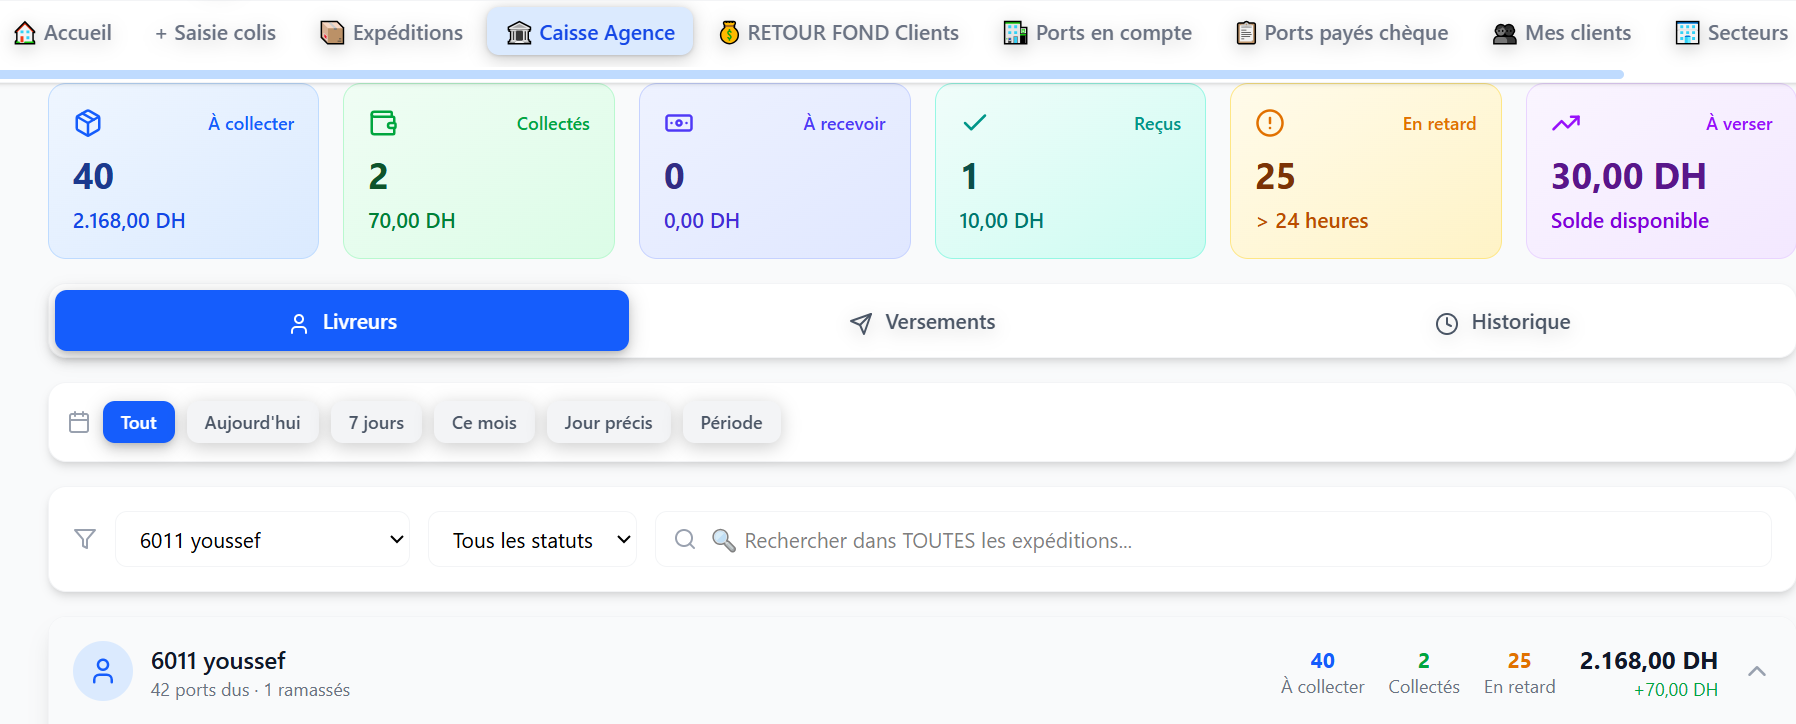
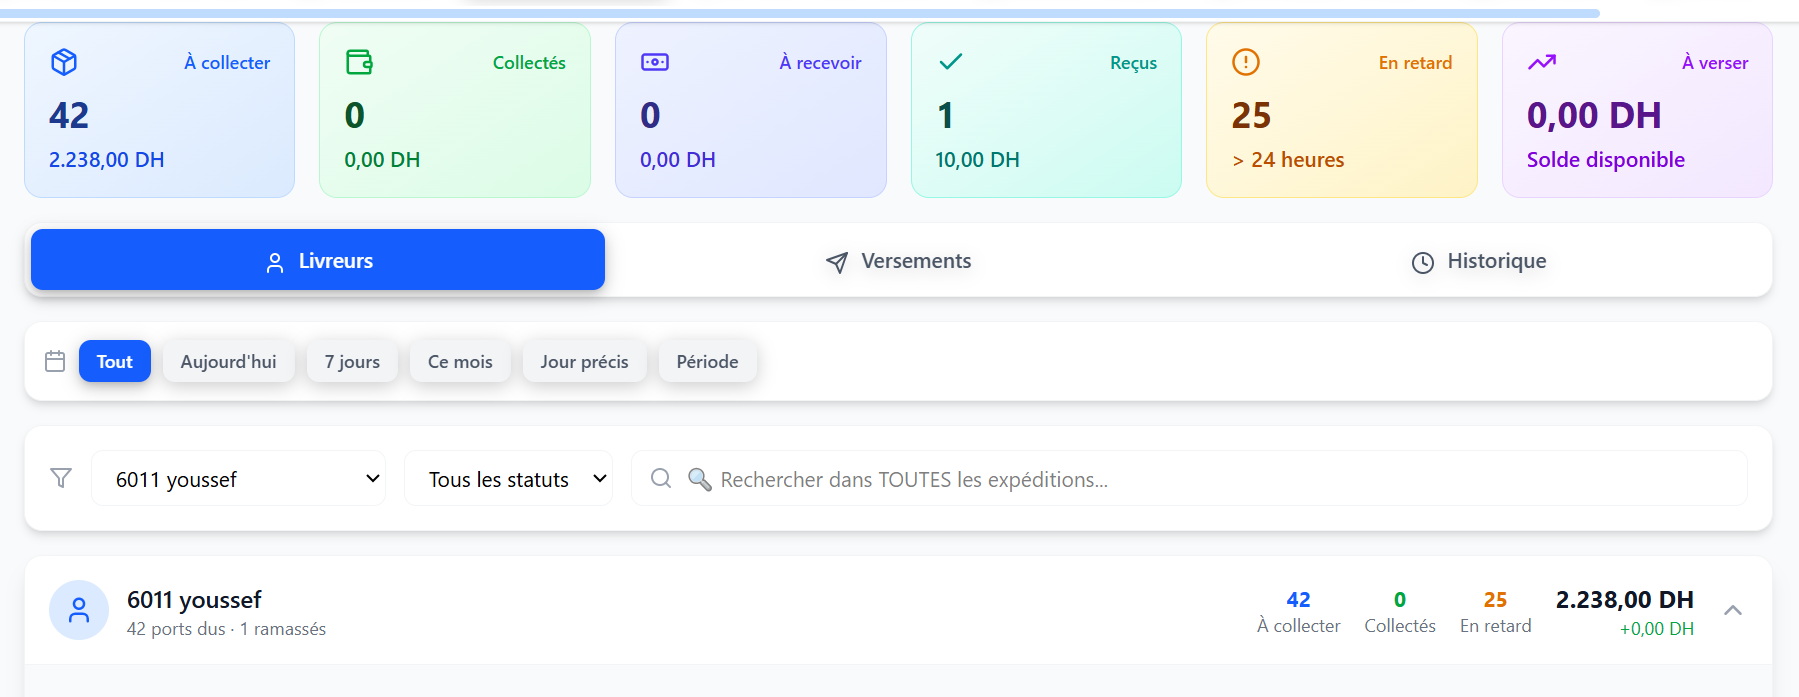
fix: Solde livreur inclut ports payés à recevoir
- Solde livreur = Ports dus collectés + Ports payés à recevoir
- Affiche l'argent total que le livreur doit verser au chef
- Inclut ports ramassés pas encore donnés au chef

diff --git a/src/pages/agent/tabs/CaisseChefTab.tsx b/src/pages/agent/tabs/CaisseChefTab.tsx
@@ -462,9 +462,24 @@ export default function CaisseChefTab() {
       p.deliveryDriverId === driverFilter
     )
 
-    return portsCollectes.reduce((sum: number, p: any) =>
+    // Ports payés à recevoir ramassés par CE livreur (TOUS, sans filtre date)
+    const portsPayesARecevoir = allParcels.filter((p: any) =>
+      p.portType === 'port_paye' &&
+      !p.portPayeMethod &&
+      (p.portStatus === 'collected' || !p.portStatus) &&
+      (p.createdByCity === profile?.city || p.originCity === profile?.city) &&
+      p.deliveryDriverId === driverFilter
+    )
+
+    const totalCollecte = portsCollectes.reduce((sum: number, p: any) =>
       sum + safeParseAmount(p.price), 0
     )
+
+    const totalPortsPayes = portsPayesARecevoir.reduce((sum: number, p: any) =>
+      sum + safeParseAmount(p.price), 0
+    )
+
+    return totalCollecte + totalPortsPayes
   }, [parcels, driverFilter, profile?.city])
 
   // Liste des livreurs actifs
